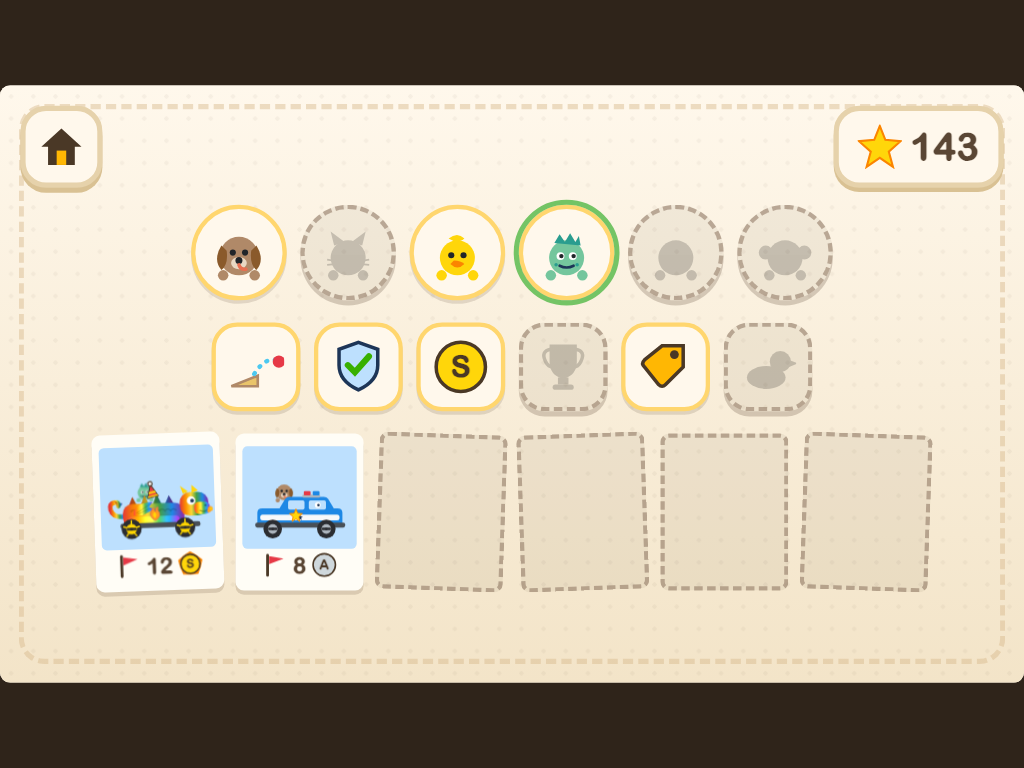
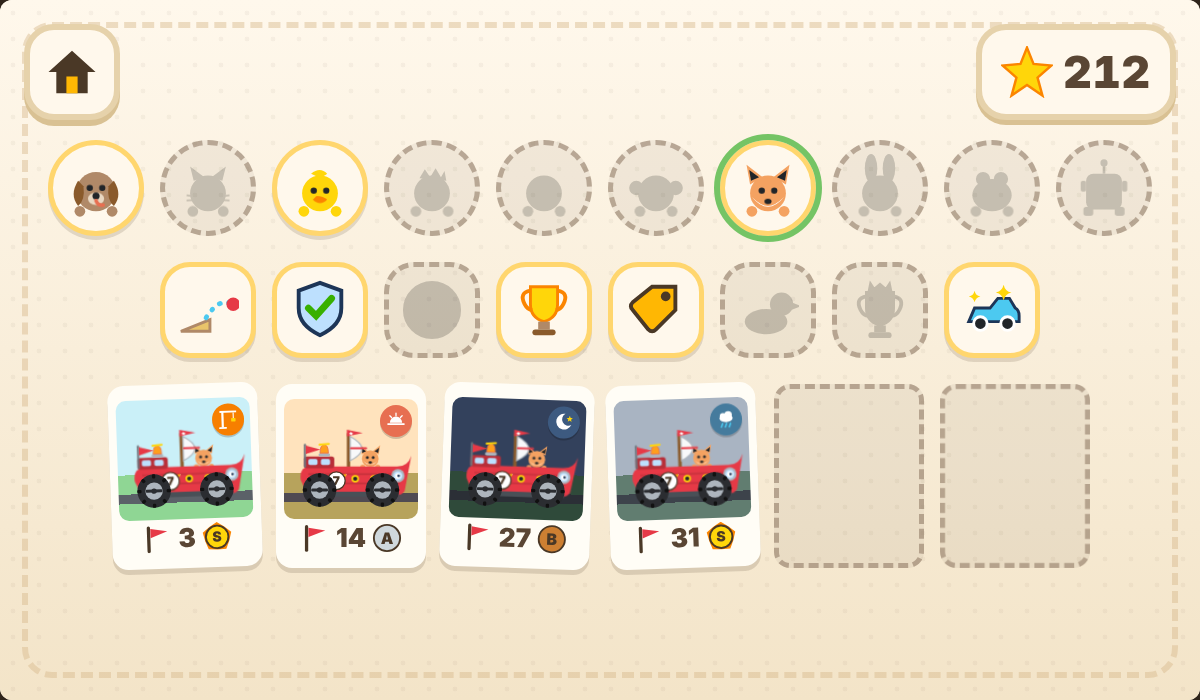
docs: README, CLAUDE.md and screenshots brought up to v12.8
README: version badge, catalog counts, the title screen, daily gift, ghost
race, map surprises, garage life and upkeep, swipe steering, the new save
code size and suite counts. Eight docs/ screenshots regenerated from the
current build by the new scripts/doc-shots.cjs (npm run shots). CLAUDE.md
added with the rules, the test and git workflow for Claude Code sessions.

Claude-Session: https://claude.ai/code/session_016ck1aPGLVyXfjAcF2qTzon

diff --git a/README.md b/README.md
@@ -16,17 +16,20 @@
   <a href="https://github.com/zacker3310/vroom/actions/workflows/test.yml"><img src="https://github.com/zacker3310/vroom/actions/workflows/test.yml/badge.svg" alt="tests"></a>
   <img src="https://img.shields.io/badge/dependencies-0-74c465" alt="zero dependencies">
   <img src="https://img.shields.io/badge/one%20file-index.html-ffd66e" alt="one file">
-  <img src="https://img.shields.io/badge/version-12.0.0-6fc0df" alt="version 12.0.0">
+  <img src="https://img.shields.io/badge/version-12.8.0-6fc0df" alt="version 12.8.0">
 </p>
 
 ![The garage: a pirate-ship car with a fox buddy, the body strip open below](docs/garage.png)
 
 ## Highlights
 
-- **Build it, then drive it.** 23 bodies, 13 wheel sets, 23 paints, 8 flank decals, 10 bolt-on extras and 10 buddies, every one of them drawn in code. The exact car you build in the garage is the car you see from behind on the road, party hat and all.
+- **Build it, then drive it.** 23 bodies, 14 wheel sets, 24 paints (one of them a secret), 8 flank decals, 12 bolt-on extras, a race number you type on a keypad, and 10 buddies, every one of them drawn in code. The exact car you build in the garage is the car you see from behind on the road, party hat and all.
 - **Twelve worlds, 120 levels.** Construction, sunset, night, rain, snow, desert, beach, space, volcano, candy land, deep sea and sky kingdom. Each is a place with its own roadside, weather, hazards, hills, jingle, ambience and star-chime scale.
 - **A road that bends and rolls.** An OutRun-style chase cam with eased curvature stretches and cosine hills, three lanes, a gas pedal, a brake pedal, and steering by swiping the road.
 - **Levels with a signature.** Every level is sequenced from a library of 38 formations so level 7 feels like "the snake-trail level" and level 8 like "the barrel-bowling level". Two headless bots drive all of them in the test suite to prove each is fair.
+- **Race yourself.** Your fastest run on every level rides along as a translucent ghost next time, with a gap chip and a bigger medal when you beat it.
+- **Something new every day.** A gift capsule in the garage once a day, and three surprises on the map seeded from the date: a sleeping dino to honk awake, a rainbow day with a secret paint, a weather day. The garage car idles, blinks and yawns; tap the hood or a wheel.
+- **Keep it running.** Fuel burns and tires wear as you drive, mud sticks until you wash it, dings stay until you fix them. A dry tank crawls and bald tires slide, but nothing ever stops you, and crossing the line spotless pays a shine bonus.
 - **Nothing to read, nothing to lose.** Icons, pictures and numerals only. Stars only go up. Crashes are comedy.
 - **Grown-up friendly.** Three kid profiles, scan-to-open QR save codes, a quiet mode for the car, home-screen install, and a toddler-proof update badge.
 - **One file.** No frameworks, no build step, no assets, no network calls. All art is inline SVG, all sound is Web Audio synthesis.
@@ -40,22 +43,22 @@
 | Worlds | |
 |---|---|
 | ![Deep Sea: a glass tunnel on the seabed under a whale-bone arch, dolphins overhead](docs/sea.png) | ![Sky Kingdom: the cloud causeway with floating castles under a rainbow](docs/sky.png) |
-| ![Rain world: a rainbow over the city after the lightning, driving under a sign gantry](docs/rain.png) | ![The world map: a winding path of level nodes across a meadow](docs/map.png) |
+| ![Rain world: a rainbow over the city after the lightning, driving under a sign gantry](docs/rain.png) | ![The world map with the day's surprises: a sleeping dino on one level, a rainbow, a weather badge on a world tab](docs/map.png) |
 
 | Album | Results |
 |---|---|
-| ![The sticker album: buddies, badges, and finish-line polaroids](docs/album.png) | ![The results card: star tally, rating stars, time medal](docs/celebrate.png) |
+| ![The sticker album: buddies, badges, and finish-line polaroids with their world behind the car](docs/album.png) | ![The results card: star tally, rating stars, time medal and the shine bonus](docs/celebrate.png) |
 
 ## How to play
 
-**The garage.** Six category tabs (body, wheels, paint, stickers, extras, workbench) open one
-scrollable strip of big picture tiles; tap a tile to equip it, swipe or use the arrows to see more. Locked parts show in full colour with a star price tag: collect stars, tap, own it. The sticker tab also holds a race number: tap the roundel tile, type up to two digits on a big keypad, and 400 stars paints it on both sides of the car (taking it off is free). The workbench tab holds the engine, shield, star magnet, fuel tank and springs upgrades and the upkeep: fix crash damage with the wrench, wash off real mud with your finger, fill the tank, fit new tires. Fuel burns and tires wear as you drive; a dry tank crawls and bald tires slide, but nothing ever stops you. Cross the line spotless and ding-free and your stars pay a shine bonus. The dice builds you a surprise. Tap the car to honk.
+**The garage.** The game opens on a title screen with your car idling; the big GO lands here. Six category tabs (body, wheels, paint, stickers, extras, workbench) open one
+scrollable strip of big picture tiles; tap a tile to equip it, swipe or use the arrows to see more. Locked parts show in full colour with a star price tag: collect stars, tap, own it. The sticker tab also holds a race number: tap the roundel tile, type up to two digits on a big keypad, and 400 stars paints it on both sides of the car (taking it off is free). The workbench tab holds the engine, shield, star magnet, fuel tank and springs upgrades and the upkeep: fix crash damage with the wrench, wash off real mud with your finger, fill the tank, fit new tires. Fuel burns and tires wear as you drive; a dry tank crawls and bald tires slide, but nothing ever stops you. Cross the line spotless and ding-free and your stars pay a shine bonus. The shuffle button at the end of the tab row builds you a surprise from the parts you own. Tap the car to honk, tap the hood to pop it open, tap a wheel to spin it. Once a day a gift capsule waits on the right wall.
 
-**The road.** Hold the gas, steer into stars and away from barrels, rocks, TNT, tumbleweeds and crabs. Ramps jump, puddles splash, capsules pop open with prizes (and sometimes a buddy). The finish gantry brings confetti, a star tally, a 1 to 3 star rating and an S/A/B/C time medal.
+**The road.** Hold the gas, steer into stars and away from barrels, rocks, TNT, tumbleweeds and crabs. Your best run rides along as a ghost; the chip under the level flag shows the gap. Ramps jump, puddles splash, capsules pop open with prizes (and sometimes a buddy). The finish gantry brings confetti, a star tally, a 1 to 3 star rating and an S/A/B/C time medal.
 
-**The map.** A winding road of level nodes. Beat a world's last level to unlock the next and bank a trophy bonus. The free-drive wheel tours every world with no finish line and no timer. Beat all 120 levels and the Victory Parade appears: a rainbow road finale with fireworks and every buddy you have found cheering from the roadside.
+**The map.** A winding road of level nodes, with the day's three surprises marked on it. Beat a world's last level to unlock the next and bank a trophy bonus. The free-drive wheel tours every world with no finish line and no timer. Beat all 120 levels and the Victory Parade appears: a rainbow road finale with fireworks and every buddy you have found cheering from the roadside.
 
-**The album.** Buddies you have found, "first!" sticker badges, and a polaroid of every finish.
+**The album.** Buddies you have found (tap one to ride along), "first!" sticker badges, and a polaroid of every finish taken where it happened. Tap a photo or a sticker to see it big.
 
 | | Touch (the real way) | Keyboard (desktop) |
 |---|---|---|
@@ -68,7 +71,7 @@ scrollable strip of big picture tiles; tap a tile to equip it, swipe or use the 
 
 - **Profiles.** The avatar button (top left of the garage) holds up to three kids, each with their own save. No typing, just faces.
 - **Save codes and QR.** The same panel shows a scan-to-open QR: point another device's camera at it and the game opens with the save ready to import (a wordless tick/cross asks first). The copy and paste buttons carry a full save code as text, and opening `https://zacker3310.github.io/vroom/#save=<code>` imports one directly.
-- **Quiet mode.** The speaker button drops every sound to car-friendly volume. It sticks.
+- **Quiet mode.** The speaker toggle in the profile panel drops every sound to car-friendly volume. It sticks.
 - **Offline and home screen.** From Safari, Share, then Add to Home Screen. It installs with its own icon, launches full-screen in landscape and runs with no connection.
 - **Updates.** When a new version is live, a green refresh badge appears beside the avatar in the garage. Press and hold it until the ring fills (about a second and a half, so stray toddler taps do nothing) and the game reloads into the new version. Progress is kept. The version number sits in the corner of the profile panel.
 - **Where progress lives.** In the browser's local storage on the device. Clearing Safari website data erases it, so export a save code first if it matters.
@@ -92,7 +95,7 @@ Everything is in `index.html`: a `<style>` block, the markup for six scenes (tit
 - **Chase-cam projector.** World coordinates keep the side-scroller's `x` (distance along the road) so the level, physics and collision code never changed; the renderer adds a lateral offset and a height and projects through one camera (`HORIZON`, `CAM_D`, `CAM_H`). Curves are eased curvature stretches integrated into a per-frame lateral offset table; hills are cosine bumps the camera rides, so a crest lifts the far road into the sky. Rear-view cars are chunky 3D toy blocks (boxes, cylinders, hulls) painter-sorted and projected through the same camera.
 - **Beat sequencer.** A level is a seeded sequence of formations: a signature beat (never one of the last four levels' signatures), one or two contrasts and breathers in one of three rhythms, ramps dropped in on cue, then guarantee passes that enforce ingredients, hard-obstacle and star budgets, clean ramp run-ups and landings, and "a stray barrel never sits inside a star trail".
 - **World packs.** Worlds 9 to 12 register themselves at anchor comments by assigning into the live tables (`WORLD_META`, `ROAD_PAL`, scenery pools, hazards, `WORLD_ROAD`, beats, jingles, ambience, star scales, sky events). Shop and paint packs do the same for the catalog.
-- **Save codes.** Format v3 is a count-prefixed bit-packed save (about 91 bytes with today's catalog) rendered as a real QR by a hand-rolled encoder (byte mode, ECC L, versions 1 to 10 with multi-block Reed-Solomon interleaving), verified byte-exact against jsQR. v1 and v2 codes still decode.
+- **Save codes.** Format v3 is a count-prefixed bit-packed save (95 bytes with today's catalog; the tail carries fuel, tires, the race number and the newer upgrade pips, and older codes simply stop short) rendered as a real QR by a hand-rolled encoder (byte mode, ECC L, versions 1 to 10 with multi-block Reed-Solomon interleaving), verified byte-exact against jsQR. v1 and v2 codes still decode.
 - **Audio.** Every sound is synthesized: oscillators and filtered noise through one master compressor. The engine is two detuned saws through a speed-swept low-pass plus a wind layer; each world has a jingle, an ambience bed and its own star-chime scale.
 - **Update gate.** The page fingerprints its own `<style>` and `<script>` text at boot (FNV-1a) and re-fetches itself with `cache: "no-store"` on boot, on return to foreground and every ten minutes. A difference shows the badge; a 1.6 s hold saves and reloads through a cache-busting URL.
 
@@ -106,7 +109,7 @@ python3 -m http.server 4173     # then open http://localhost:4173/
 
 There is no build. Edit `index.html`, reload.
 
-The test suite is 22 Playwright suites (368 checks) that drive the real game in headless Chromium: economy, physics, worlds, album, profiles, save codes, the wash, fuel and tires, the race number, the update gate, and the fairness bots that drive all 120 levels.
+The test suite is 22 Playwright suites (371 checks) that drive the real game in headless Chromium: economy, physics, worlds, album, profiles, save codes, the wash, fuel and tires, the race number, the title screen and daily gift, the ghost race, garage life, the map surprises, the update gate, and the fairness bots that drive all 120 levels.
 
 ```bash
 npm ci                                   # playwright-core + jsqr, test-only
@@ -118,7 +121,7 @@ npm test                                 # serves index.html on a free port, run
 
 ## Project history
 
-The game grew in twelve user-directed versions over a few months, from a five-body garage to twelve worlds. [TASKS.md](TASKS.md) is the version-by-version log; [SPEC.md](SPEC.md) is the living design spec. It was built with Claude Code in an agentic build loop: design and content generated by parallel subagents, every round audited by an adversarial reviewer with fix authority before merge. The audit trail is in `.buildloop/`.
+The game grew through twelve user-directed versions and their point releases, from a five-body garage to twelve worlds, ghosts, daily surprises and a workbench with five ladders. [TASKS.md](TASKS.md) is the version-by-version log; [SPEC.md](SPEC.md) is the living design spec. It was built with Claude Code in an agentic build loop: design and content generated by parallel subagents, every round audited by an adversarial reviewer with fix authority before merge. The audit trail is in `.buildloop/`.
 
 ## Credits
 

diff --git a/CLAUDE.md b/CLAUDE.md
@@ -1,0 +1,42 @@
+# Vroom: notes for Claude Code
+
+Vroom is a one-file kids' driving game: `index.html` holds all CSS, markup and JS (a 30-section
+table of contents sits at the top of the script). No build, no dependencies, no network. Read
+`CONTRIBUTING.md` for the non-negotiable rules and the content-pack anchors, and
+`docs/ARCHITECTURE.md` for how the pieces fit. `SPEC.md` is the design spec; `TASKS.md` the log.
+
+## Rules that the suite and the user both enforce
+
+- Zero on-screen words: numerals and symbols only, pictograms for everything. `aria-label`s are fine.
+- No fail states. Stars only go up. Obstacles stop and ding, never end a run. Dry fuel crawls, it never strands.
+- Every tap target is at least 64 px rendered at 1024x768 (so 76 stage px or more).
+- Toybox look: the `--v-*` tokens in `:root`, flat `0 6px 0` shadows, big radii, `var(--v-font)`. Navy is game art, never chrome.
+- Save data is forever: `CODE_*`, `BODY_ORDER`, `WHEEL_ORDER`, `COLORS`, `DECAL_ORDER`, `BUDDY_ORDER`, `BADGES` are append-only. New save fields go on the end of the v3 tail with a `pos + n <= bytes.length * 8` guard, and in `loadState()` with a default for older saves.
+- Honour `prefers-reduced-motion` for anything decorative.
+- Bump `APP_VERSION` on every user-visible change; the hosted update gate keys off it.
+- No em dashes in anything you write (code comments, docs, commit messages, replies).
+
+## Working here
+
+```bash
+python3 -m http.server 4173              # serve; the page must be served, not opened from disk
+npm ci && npx playwright-core install chromium
+npm test                                 # 22 suites; serves on its own free port, appends ?garage
+node tests/lint.cjs                      # ESLint over the inline script, must be 0 findings
+npm run shots                            # regenerate docs/*.png (needs the server + a Chromium)
+```
+
+- The page boots into a title scene. Append `?garage` to land in the garage (the runner does this); the suites' default `VROOM_URL` already carries it.
+- `CHROMIUM=/path/to/chrome` points the suites at a browser. In the cloud session the shared one lives at `/opt/pw-browsers/chromium-1194/chrome-linux/chrome` and `node_modules` for the tests at `<scratchpad>/t/node_modules` (set `NODE_PATH`).
+- Port 4173 can be held by a stale server from a worktree. If a manual screenshot shows the wrong version, check `APP_VERSION` in the served page before debugging code.
+- The fairness bots (`tests/fairness-check.cjs`) drive all 120 levels. If level content fails them, fix the content, never the thresholds.
+- Every feature gets a check in the suite that owns the area (see `tests/README.md`); keep the counts in that README and in the top-level README current.
+- Tests run under load on the shared box can flake on the two timing checks (level-80 frame time, ghost replay timing); rerun those suites alone before treating a failure as real.
+
+## Git
+
+- Commit as `Claude <noreply@anthropic.com>` (the repo config is set); the user's stop hook rejects other committer identities.
+- End every commit message with the two attribution lines the session provides.
+- Agent worktree branches are merged into `main` with `git merge --squash` so each feature lands as one verified, Claude-authored commit.
+- Push `main`, then mirror it with `git push origin main:feat/chase-cam`. Never open a pull request unless asked.
+- Run the full battery and lint before every push. A pipe such as `node tests/run-all.cjs | tail` hides the exit code; capture to a log and check `exit`.

diff --git a/CONTRIBUTING.md b/CONTRIBUTING.md
@@ -180,4 +180,4 @@ to extend.
 - Run `npm test` locally. Mention the table's bottom line in the PR.
 - Numerals are allowed on screen, words are not. If you need to explain something to the
   kid, draw it.
-- Screenshots in `docs/` are curated by hand; do not regenerate them in a content PR.
+- Screenshots in `docs/` come from `npm run shots` (`scripts/doc-shots.cjs`, needs a server on 4173 and `CHROMIUM`); regenerate them only in a PR that changes what they show.
